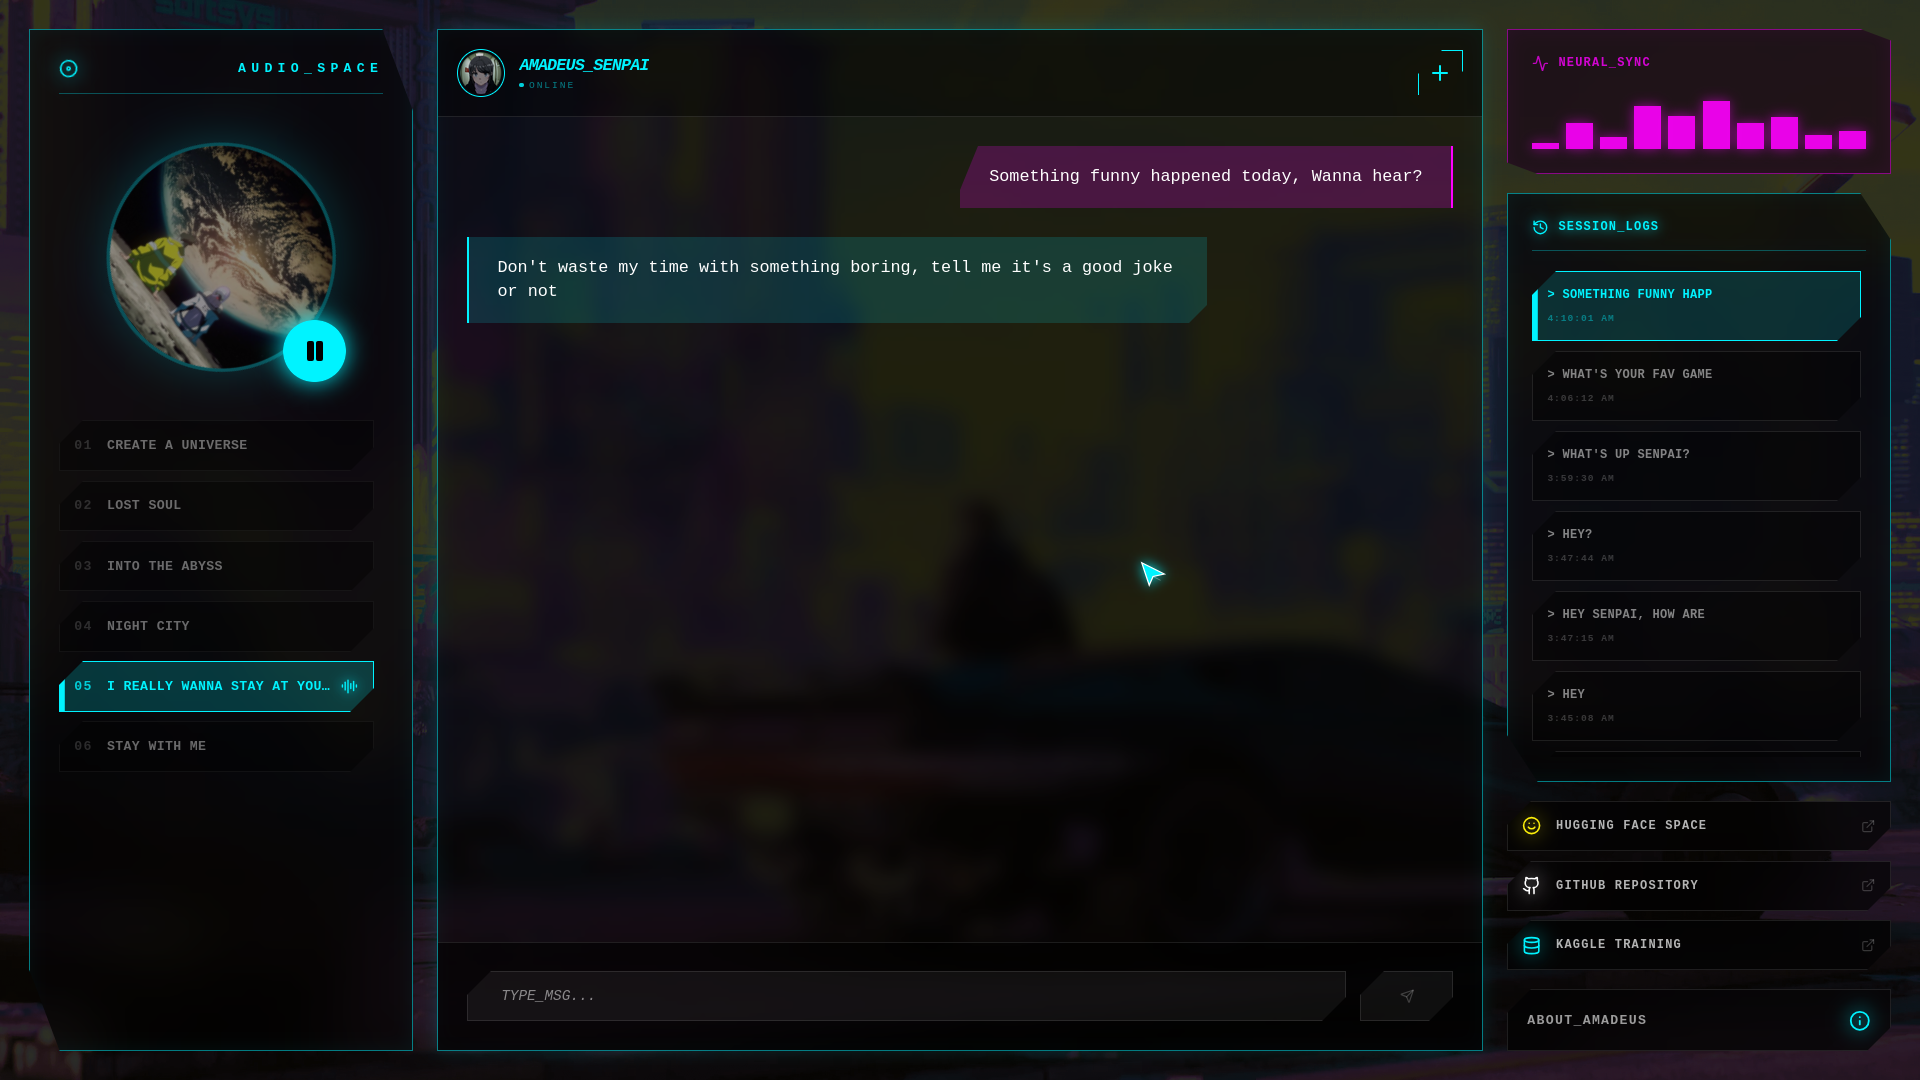
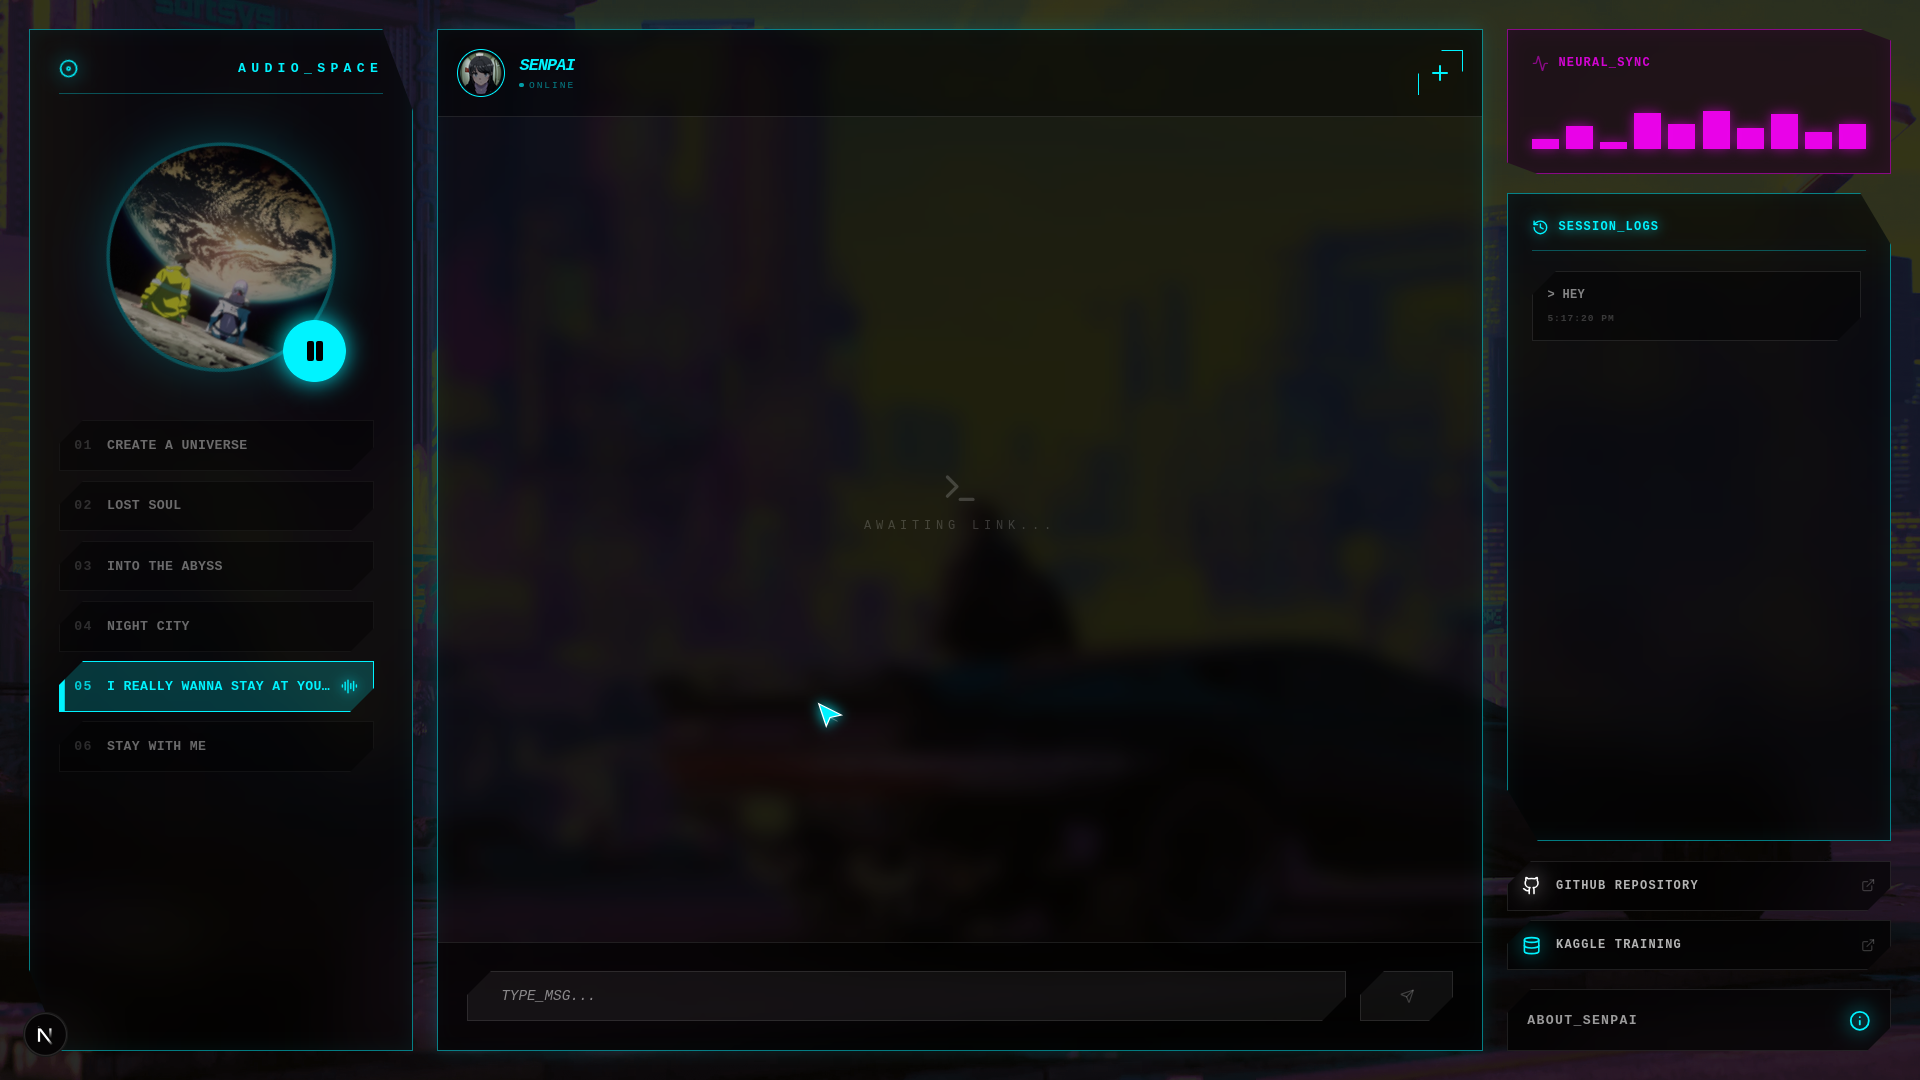
Update Readme

diff --git a/README.md b/README.md
@@ -2,7 +2,7 @@
 
 [![Framework: Next.js 15](https://img.shields.io/badge/Framework-Next.js%2015-black?style=flat-square&logo=next.js)](https://nextjs.org/)
 [![Model: Llama-3](https://img.shields.io/badge/Model-Llama--3--8B-blue?style=flat-square)](https://huggingface.co/meta-llama/Meta-Llama-3-8B)
-[![Backend: Hugging Face](https://img.shields.io/badge/Backend-Hugging%20Face%20Spaces-yellow?style=flat-square&)](https://huggingface.co/spaces/lilLilith/Amadeus-RAG/tree/main)
+[![Backend: Hugging Face](https://img.shields.io/badge/Backend-Hugging%20Face%20Spaces-yellow?style=flat-square&)](https://huggingface.co)
 [![UI: Cyberpunk](https://img.shields.io/badge/UI-Cyberpunk--Theme-ff00ff?style=flat-square)](https://tailwindcss.com/)
 
 Let’s be real standard AI has zero aura. It’s too polite, too robotic, and honestly? Just mid. So I decided to cook something different. I took 12k+ real world WhatsApp messages from my friend “senpai” and basically fine tuned her entire personality into a Llama-3 8B model, Trained it on Kaggle , used Hugging face as backend and nextjs as frontend.
@@ -10,7 +10,7 @@ Let’s be real standard AI has zero aura. It’s too polite, too robotic, and h
 You can explore the project here:
 
 **Live Website:**  
-https://Amadeus-rag.vercel.app/
+https://senpai-chatbot.vercel.app/
 
 **Kaggle Training Notebook:**  
 https://www.kaggle.com/code/hamnamubarak/amadeus/edit
